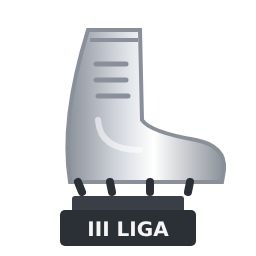
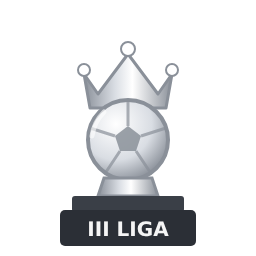
Nagrody indywidualne: nowe kryteria MVP, remisy trofeami, Złoty But, nowe ikony królów strzelców
Claude-Session: https://claude.ai/code/session_0162SUfuPVUFh19sHBde49Ly

Changed region(s): [[0.25, 0.0938, 0.9062, 0.7812]]

diff --git a/app/Actions/Seasons/AwardHallOfFame.php b/app/Actions/Seasons/AwardHallOfFame.php
@@ -33,10 +33,13 @@ use Illuminate\Support\Facades\DB;
  *  - puchary europejskie: wygrane i remisy w grupie, 1. miejsce w grupie, awans do kolejnych etapów (na bieżąco),
  *    zwycięzca finału (po zakończeniu sezonu),
  *  - Liga Legend: wygrane i remisy, przetrwane kolejki (na bieżąco), miejsca 1-3 tabeli końcowej,
- *  - nagrody indywidualne (po zakończeniu sezonu, gracze i boty): MVP sezonu (najwięcej trafionych rozstrzygnięć,
- *    potem dokładne wyniki, potem różnice), Złota Piłka (najwięcej goli w sezonie ze wszystkich rozgrywek: ofensywa,
- *    czyli punkty za typ + bonus ofensywny, ze wszystkich rozgrywek zespołu) i Złote Rękawice (najwięcej punktów
- *    z bonusów defensywnych); przy remisie wyższe miejsce w lidze (poziom, potem miejsce w tabeli końcowej).
+ *  - nagrody indywidualne (po zakończeniu sezonu, gracze i boty, zestaw lig = ligi i podwórkowa):
+ *    MVP sezonu (trafione rozstrzygnięcia + punkty ataku + punkty obrony zawodników w zestawie lig),
+ *    Złota Piłka (ofensywa ze wszystkich rozgrywek: punkty za typ + punkty ataku zawodników, bez samobójów rywala),
+ *    Złoty But (punkty ataku zawodników, gole i asysty, ze wszystkich rozgrywek),
+ *    Złote Rękawice (punkty obrony zawodników, czyste konta, w zestawie lig);
+ *    przy remisie więcej trofeów zespołowych w sezonie (tytuły, puchary, królowie strzelców), potem wyższe miejsce
+ *    w lidze (poziom, potem miejsce w tabeli końcowej).
  * Punkty za mecze i etapy dostaje ten, kto w danej kolejce naprawdę grał miejscem (Ownership): gracz, który wskoczył
  * za bota, nie przejmuje punktów bota. Miejsca, tytuły i trofea z tabel końcowych idą do właściciela na koniec sezonu.
  */
@@ -312,8 +315,9 @@ class AwardHallOfFame
 
     /**
      * Nagrody indywidualne sezonu. MVP i Złote Rękawice z dorobku lig (wspólny dla lig 1-10 i podwórkowej),
-     * więc każdy ma te same szanse niezależnie od ligi. Złota Piłka: suma ofensywy (typ + bonus ofensywny)
-     * ze wszystkich rozgrywek, w których zespół grał w sezonie.
+     * więc każdy ma te same szanse niezależnie od ligi. Złota Piłka (typ + punkty ataku zawodników) i Złoty But
+     * (same punkty ataku zawodników) ze wszystkich rozgrywek, w których zespół grał w sezonie.
+     * Remis: więcej trofeów zespołowych w sezonie, potem wyższe miejsce w lidze.
      *
      * @param  array<array-key, iterable<FinalStanding>>  $standings  tabele końcowe: id rozgrywek => wiersze FinalStanding
      */
@@ -328,19 +332,30 @@ class AwardHallOfFame
             ->get()
             ->keyBy('id');
 
-        // Zespół => wiersz tabeli końcowej jego ligi (miejsce, gole) i rozgrywki.
-        /** @var array<int, array{standing: FinalStanding, competition: Competition, rank: int, goals: int, gloves: int, outcomes: int, exact: int, diffs: int}> $rows */
+        // Trofea zespołowe sezonu według właściciela (kryterium remisu nagród indywidualnych).
+        $trophies = [];
+        foreach ($this->rows as $row) {
+            if ($row['trophy'] !== null) {
+                $owner = $row['user_id'] ? 'u'.$row['user_id'] : 'b'.$row['bot_id'];
+                $trophies[$owner] = ($trophies[$owner] ?? 0) + 1;
+            }
+        }
+
+        // Zespół => wiersz tabeli końcowej jego ligi (miejsce) i rozgrywki.
+        /** @var array<int, array<string, mixed>> $rows */
         $rows = [];
         foreach ($leagues as $competition) {
             $tier = $competition->type === CompetitionType::Swiss ? League::Podworkowa->value : (int) $competition->tier;
 
             foreach ($standings[$competition->id] ?? [] as $standing) {
+                $owner = $standing->user_id ? 'u'.$standing->user_id : 'b'.$standing->bot_id;
                 $rows[$standing->season_team_id] = [
                     'standing' => $standing,
                     'competition' => $competition,
                     'rank' => $tier * 10000 + $standing->place, // remis: wyższa liga, potem wyższe miejsce
-                    'goals' => 0,
-                    'gloves' => 0, 'outcomes' => 0, 'exact' => 0, 'diffs' => 0,
+                    'trophies' => $trophies[$owner] ?? 0,
+                    'outcomes' => 0, 'attack' => 0, 'defense' => 0,
+                    'mvp' => 0, 'goals' => 0, 'boot' => 0, 'gloves' => 0,
                 ];
             }
         }
@@ -349,7 +364,8 @@ class AwardHallOfFame
             return;
         }
 
-        // Sumy z kolejek sezonu (TeamScore, zestaw lig). Wartości logiczne sumujemy jako 0/1.
+        // Sumy z kolejek sezonu (TeamScore). Wartości logiczne sumujemy jako 0/1.
+        $league = CompetitionType::League->value;
         $sums = TeamScore::query()
             ->join('matchdays', 'matchdays.id', '=', 'team_scores.matchday_id')
             ->where('matchdays.season_id', $this->season->id)
@@ -357,10 +373,10 @@ class AwardHallOfFame
             ->groupBy('team_scores.season_team_id', 'team_scores.user_id', 'team_scores.bot_id')
             ->selectRaw('team_scores.season_team_id as team_id, team_scores.user_id as owner_user, team_scores.bot_id as owner_bot,
                 sum(team_scores.offense) as goals,
-                sum(case when team_scores.score_set = ? then team_scores.defense_bonus else 0 end) as league_gloves,
-                sum(case when team_scores.score_set = ? and team_scores.outcome_hit then 1 else 0 end) as outcomes,
-                sum(case when team_scores.score_set = ? and team_scores.exact_hit then 1 else 0 end) as exact,
-                sum(case when team_scores.score_set = ? and team_scores.diff_hit then 1 else 0 end) as diffs', array_fill(0, 4, CompetitionType::League->value))
+                sum(team_scores.offense_bonus) as boot,
+                sum(case when team_scores.score_set = ? then team_scores.offense_bonus else 0 end) as league_attack,
+                sum(case when team_scores.score_set = ? then team_scores.defense_bonus else 0 end) as league_defense,
+                sum(case when team_scores.score_set = ? and team_scores.outcome_hit then 1 else 0 end) as outcomes', [$league, $league, $league])
             ->toBase()
             ->get();
 
@@ -370,36 +386,33 @@ class AwardHallOfFame
 
             // Liczą się tylko kolejki właściciela z tabeli końcowej (nie bota, za którego wskoczył gracz).
             if ($standing && (int) $sum->owner_user === (int) $standing->user_id && (int) $sum->owner_bot === (int) $standing->bot_id) {
-                $rows[$teamId]['goals'] = (int) $sum->goals; // ofensywa ze wszystkich zestawów
-                $rows[$teamId]['gloves'] = (int) $sum->league_gloves; // tylko zestaw lig
                 $rows[$teamId]['outcomes'] = (int) $sum->outcomes;
-                $rows[$teamId]['exact'] = (int) $sum->exact;
-                $rows[$teamId]['diffs'] = (int) $sum->diffs;
+                $rows[$teamId]['attack'] = (int) $sum->league_attack;
+                $rows[$teamId]['defense'] = (int) $sum->league_defense;
+                $rows[$teamId]['mvp'] = (int) $sum->outcomes + (int) $sum->league_attack + (int) $sum->league_defense;
+                $rows[$teamId]['goals'] = (int) $sum->goals; // ofensywa ze wszystkich zestawów
+                $rows[$teamId]['boot'] = (int) $sum->boot; // punkty ataku zawodników ze wszystkich zestawów
+                $rows[$teamId]['gloves'] = (int) $sum->league_defense; // tylko zestaw lig
             }
         }
 
+        // Nagroda => kryterium główne i składniki zapisywane w opisie (meta).
         $awards = [
-            'mvp' => ['outcomes', 'exact', 'diffs'],
-            'golden_ball' => ['goals'],
-            'golden_gloves' => ['gloves'],
+            'mvp' => ['mvp', ['outcomes', 'attack', 'defense']],
+            'golden_ball' => ['goals', []],
+            'golden_boot' => ['boot', []],
+            'golden_gloves' => ['gloves', []],
         ];
 
-        foreach ($awards as $key => $criteria) {
+        foreach ($awards as $key => [$criterion, $parts]) {
             $winner = collect($rows)
-                ->filter(fn ($row) => $row[$criteria[0]] > 0)
-                ->sort(function ($a, $b) use ($criteria) {
-                    foreach ($criteria as $criterion) {
-                        if ($a[$criterion] !== $b[$criterion]) {
-                            return $b[$criterion] <=> $a[$criterion];
-                        }
-                    }
-
-                    return $a['rank'] <=> $b['rank'];
-                })
+                ->filter(fn ($row) => $row[$criterion] > 0)
+                ->sort(fn ($a, $b) => [$b[$criterion], $b['trophies'], $a['rank']] <=> [$a[$criterion], $a['trophies'], $b['rank']])
                 ->first();
 
             if ($winner) {
-                $meta = array_intersect_key($winner, array_flip($criteria)) + ['place' => $winner['standing']->place];
+                $meta = [$criterion => $winner[$criterion]] + array_intersect_key($winner, array_flip($parts))
+                    + ['trophies' => $winner['trophies'], 'place' => $winner['standing']->place];
                 $this->add($winner['competition'], $winner['standing'], $key, HallOfFame::value($key), $key, $meta);
             }
         }

diff --git a/app/Support/Guide.php b/app/Support/Guide.php
@@ -21,7 +21,7 @@ class Guide
             [__('European cups'), __('Liga Mistrzów, Europy and Konferencji have 24 teams each; a team plays in only one of them. Matchdays 1-5: four groups of six, everyone plays everyone once, league points and tie-breakers. The top four of each group go through, the fifth and sixth places are out. Teams from the same group place are ranked against each other: seeds 1-4 are the group winners, 5-8 the runners-up, 9-12 the third places and 13-16 the fourth places. Matchdays 6-9: round of 16 (1-16, 2-15 …), quarter-final, semi-final and final, played like Puchar Polski, so the best group winner can meet the second best only in the final.')],
             [__('Promotion and relegation'), __('After the season bots go to the bottom of every table, then 4 teams go up and 4 go down, and finally every bot swaps places with the best human below it, so humans fill the leagues from the top. Bots beyond place 512 of the list rest for a season. The top 3 of leagues 1–10 play in Liga Mistrzów, Europy and Konferencji next season.')],
             [__('Liga Legend'), __('All teams run by people play. Every matchday each team plays two duels in a cycle: 1-2, 2-3 … and the first with the last (matchday 1 from the pre-season list, then by the current table, the higher team on the left). The table is a league table (3 points for a win, 1 for a draw, criteria as in the leagues) and counts from matchday 1. Two losses in one matchday knock the team out: its results stay in the table, but it no longer plays. A draw is not a loss. When two teams are left, they play one match. After matchday 9 the top of the whole table wins.')],
-            [__('Individual awards'), __('Season MVP: the most correct outcomes (then exact scores, then goal differences). Golden Ball: the most goals in the whole season from all competitions (points for the tip plus the offensive bonus). Golden Gloves: the most points from defensive bonuses. MVP and Golden Gloves count the league matches; on a tie the higher league place wins. All three give Hall of Fame points.')],
+            [__('Individual awards'), __('Season MVP: correct outcomes plus your players\' attack and defence points in league matches. Golden Ball: the most goals in the whole season from all competitions (points for the tip plus your players\' attack points, without the rival\'s own goals). Golden Boot: the most attack points of your players (goals and assists) from all competitions. Golden Gloves: the most defence points of your players (clean sheets) in league matches. On a tie the team with more trophies this season wins, then the higher league place. Top scorer of a league: the most goals in its table, on a tie the higher place. All awards give Hall of Fame points.')],
             [__('Inactivity and bots'), __('5 matchdays in a row without a tip turn your team into a bot from the next season. Bots tip a random score from 0–3 : 0–3.')],
         ];
     }

diff --git a/app/Support/CompetitionHistory.php b/app/Support/CompetitionHistory.php
@@ -18,15 +18,15 @@ use Illuminate\Support\Str;
 /**
  * Historia rozgrywek i rekordy (strona /history): triumfatorzy sezon po sezonie i rekordy wszech czasów
  * dla każdych rozgrywek (klucz trofeum: league_1…league_11, cup, champions, europa, conference, legends)
- * oraz nagród indywidualnych (mvp, golden_ball, golden_gloves). Tylko zakończone sezony.
+ * oraz nagród indywidualnych (mvp, golden_ball, golden_boot, golden_gloves). Tylko zakończone sezony.
  * Zespół w rekordach to właściciel miejsca na koniec sezonu (gracz albo bot, final_standings.user_id/bot_id).
  */
 final class CompetitionHistory
 {
-    public const AWARDS = ['mvp', 'golden_ball', 'golden_gloves'];
+    public const AWARDS = ['mvp', 'golden_ball', 'golden_boot', 'golden_gloves'];
 
     /** Rozgrywki pokazywane w „Ostatnich mistrzach” na stronie głównej (w kolejności ważności). */
-    public const HIGHLIGHTS = ['legends', 'league_1', 'cup', 'champions', 'europa', 'conference', 'mvp', 'golden_ball', 'golden_gloves'];
+    public const HIGHLIGHTS = ['legends', 'league_1', 'cup', 'champions', 'europa', 'conference', 'mvp', 'golden_ball', 'golden_boot', 'golden_gloves'];
 
     /** @var array<string, array{name: string, url: string|null, bot: bool}> */
     private static array $owners = [];
@@ -136,8 +136,8 @@ final class CompetitionHistory
 
         if (self::isAward($key)) {
             $awards = HallOfFameAward::where('kind', $key)->whereIn('season_id', $seasons->keys())->get();
-            $winners = $awards->filter(fn ($a) => ($a->meta['place'] ?? 1) === 1);
-            $metric = ['mvp' => 'exact', 'golden_ball' => 'goals', 'golden_gloves' => 'gloves'][$key];
+            $winners = $awards; // jedna nagroda na sezon (meta.place to miejsce w lidze, nie w klasyfikacji nagrody)
+            $metric = ['mvp' => 'mvp', 'golden_ball' => 'goals', 'golden_boot' => 'boot', 'golden_gloves' => 'gloves'][$key];
 
             return array_values(array_filter([
                 self::top(__('Most wins of the award'), 'trophy', $winners, fn ($rows) => $rows->count()),
@@ -243,8 +243,11 @@ final class CompetitionHistory
     {
         return match ($key) {
             'golden_ball' => __(':count goals', ['count' => $meta['goals'] ?? 0]),
+            'golden_boot' => __('Attack points: :count', ['count' => $meta['boot'] ?? 0]),
             'golden_gloves' => __('Clean sheets: :count', ['count' => $meta['gloves'] ?? 0]),
-            default => __('Exact tips: :count', ['count' => $meta['exact'] ?? 0]),
+            default => __(':count pts (outcomes :outcomes, attack :attack, defence :defense)', [
+                'count' => $meta['mvp'] ?? 0, 'outcomes' => $meta['outcomes'] ?? 0, 'attack' => $meta['attack'] ?? 0, 'defense' => $meta['defense'] ?? 0,
+            ]),
         };
     }
 

diff --git a/app/Support/HallOfFame.php b/app/Support/HallOfFame.php
@@ -48,11 +48,11 @@ final class HallOfFame
         'legends_win' => 2, 'legends_draw' => 1, 'legends_survived' => 10,
         'legends_champion' => 500, 'legends_second' => 250, 'legends_third' => 150,
         // Nagrody indywidualne sezonu (gracze i boty, przy remisie wyższe miejsce w lidze).
-        'mvp' => 400, 'golden_ball' => 360, 'golden_gloves' => 330,
+        'mvp' => 400, 'golden_ball' => 360, 'golden_boot' => 345, 'golden_gloves' => 330,
     ];
 
     /** Klucze nagród indywidualnych (te same w trofeach i w punktacji). */
-    public const INDIVIDUAL = ['mvp', 'golden_ball', 'golden_gloves'];
+    public const INDIVIDUAL = ['mvp', 'golden_ball', 'golden_boot', 'golden_gloves'];
 
     /** @var array<string, float>|null */
     private static ?array $values = null;
@@ -152,6 +152,7 @@ final class HallOfFame
             __('Individual awards') => [
                 'mvp' => __('Season MVP'),
                 'golden_ball' => __('Golden Ball'),
+                'golden_boot' => __('Golden Boot'),
                 'golden_gloves' => __('Golden Gloves'),
             ],
         ];
@@ -159,7 +160,7 @@ final class HallOfFame
 
     /**
      * Trofea do gabloty: klucz => nazwa, w kolejności ważności (tak je pokazujemy):
-     * Liga Legend, Ekstraklasa, Puchar Polski, MVP, Złota Piłka, Złote Rękawice, Liga Mistrzów, Liga Europy,
+     * Liga Legend, Ekstraklasa, Puchar Polski, MVP, Złota Piłka, Złoty But, Złote Rękawice, Liga Mistrzów, Liga Europy,
      * Liga Konferencji, ligi od I ligi do podwórkowej, królowie strzelców lig (od Ekstraklasy).
      *
      * @return array<string, string>
@@ -172,6 +173,7 @@ final class HallOfFame
             CompetitionType::Cup->value => CompetitionType::Cup->label(),
             'mvp' => __('Season MVP'),
             'golden_ball' => __('Golden Ball'),
+            'golden_boot' => __('Golden Boot'),
             'golden_gloves' => __('Golden Gloves'),
             CompetitionType::Champions->value => CompetitionType::Champions->label(),
             CompetitionType::Europa->value => CompetitionType::Europa->label(),

diff --git a/app/Support/EuropeanQualification.php b/app/Support/EuropeanQualification.php
@@ -37,6 +37,7 @@ final class EuropeanQualification
         'europa_winner',
         'golden_ball',
         'mvp',
+        'golden_boot',
         'golden_gloves',
         'conference_winner',
         'lower_champions',
@@ -62,6 +63,7 @@ final class EuropeanQualification
             'europa_winner' => __('Europa League winner'),
             'golden_ball' => __('Golden Ball'),
             'mvp' => __('MVP'),
+            'golden_boot' => __('Golden Boot'),
             'golden_gloves' => __('Golden Gloves'),
             'conference_winner' => __('Conference League winner'),
             'lower_champions' => __('Champions of I liga … C klasa (from the highest league)'),
@@ -185,7 +187,7 @@ final class EuropeanQualification
                 'league_champion' => $at(CompetitionType::League, 1, 1),
                 'cup_winner' => $at(CompetitionType::Cup, 1),
                 'europa_winner' => $at(CompetitionType::Europa, 1),
-                'golden_ball', 'mvp', 'golden_gloves' => $award($key),
+                'golden_ball', 'mvp', 'golden_boot', 'golden_gloves' => $award($key),
                 'conference_winner' => $at(CompetitionType::Conference, 1),
                 'lower_champions' => array_merge(...array_map(fn (int $tier) => $at(CompetitionType::League, 1, $tier), range(2, 10))),
                 'cup_finalist' => $at(CompetitionType::Cup, 2),

diff --git a/app/Models/HallOfFameAward.php b/app/Models/HallOfFameAward.php
@@ -13,7 +13,7 @@ use Illuminate\Database\Eloquent\Relations\BelongsTo;
  * @property int|null $season_team_id
  * @property int|null $user_id
  * @property int|null $bot_id
- * @property string $kind matches, champion, second, third, promotion, top_scorer, cup_rounds, cup_winner, title, european_stages, group_first, legends_stages, mvp, golden_ball, golden_gloves
+ * @property string $kind matches, champion, second, third, promotion, top_scorer, cup_rounds, cup_winner, title, european_stages, group_first, legends_stages, mvp, golden_ball, golden_boot, golden_gloves
  * @property string|null $trophy klucz trofeum do gabloty (App\Support\HallOfFame::trophies())
  * @property float $points
  * @property array|null $meta
